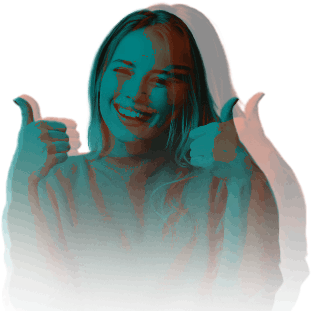
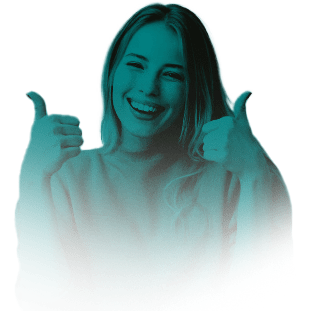
adecuaciones al home, cambio de color en seccion de testimoniales

diff --git a/styles/css/main.css b/styles/css/main.css
@@ -7579,7 +7579,7 @@ h6 {
 
 .testimonials {
   width: 100%;
-  background: #272727;
+  background: #008081;
   position: relative;
   margin: 0;
 }
@@ -7595,7 +7595,7 @@ h6 {
   flex-direction: column;
   align-items: center;
   justify-content: center;
-  color: #d4f1e2;
+  color: #011109;
 }
 .testimonials .testimonial__image {
   position: relative;
@@ -7605,7 +7605,7 @@ h6 {
 .testimonials .testimonial__img {
   width: 100%;
   max-width: 250px;
-  border: solid 1px #bd1025;
+  border: solid 1px #011109;
   border-radius: 50%;
   padding: 1rem;
   display: block;
@@ -7624,7 +7624,7 @@ h6 {
   width: 90%;
   font-size: 1.8rem;
   text-align: center;
-  font-weight: 100;
+  font-weight: 400;
   margin: 0 0 3rem 0;
 }
 .testimonials .testimonial__arrow {
@@ -8054,26 +8054,26 @@ h6 {
   width: 300%;
   background: #d4f1e2;
 }
-.title-section.title-section--testomonios {
+.title-section.title-section--testimonios {
   margin-bottom: 5rem;
   width: 100%;
   max-width: 100%;
   overflow: hidden;
 }
-.title-section.title-section--testomonios span {
-  color: #272727;
+.title-section.title-section--testimonios span {
+  color: #008081;
 }
-.title-section.title-section--testomonios span::after {
+.title-section.title-section--testimonios span::after {
   background: #272727;
   left: 200%;
   width: 200%;
 }
-.title-section.title-section--testomonios span:last-of-type {
+.title-section.title-section--testimonios span:last-of-type {
   align-self: flex-end;
   color: #011109;
   padding-right: 20%;
 }
-.title-section.title-section--testomonios span:last-of-type::after {
+.title-section.title-section--testimonios span:last-of-type::after {
   left: -149.5%;
   width: 300%;
   background: #011109;

diff --git a/styles/sass/components/_testimonials.scss b/styles/sass/components/_testimonials.scss
@@ -1,6 +1,6 @@
 .testimonials {
   width: 100%;
-  background: $grey;
+  background: $green;
   position: relative;
   margin: 0;
 
@@ -18,7 +18,7 @@
     flex-direction: column;
     align-items: center;
     justify-content: center;
-    color: $white-green;
+    color: $black;
   }
 
   & .testimonial__image {
@@ -30,7 +30,7 @@
   & .testimonial__img {
     width: 100%;
     max-width: 250px;
-    border: solid 1px $red;
+    border: solid 1px $black;
     border-radius: 50%;
     padding: 1rem;
     display: block;
@@ -54,7 +54,7 @@
     width: 90%;
     font-size: 1.8rem;
     text-align: center;
-    font-weight: $thin-font;
+    font-weight: $regular-font;
     margin: 0 0 3rem 0;
   }
 

diff --git a/index.html b/index.html
@@ -149,7 +149,8 @@
             queramos cambiar"
           </h3>
           <h4 class="banner__author">JAVIER CREUS</h4>
-          <h5 class="banner__company">Fundador de Ideas For Change</h5>
+          <h5 class="banner__company">Fundador de Ideas For Change <br>
+Mentor en The Social Circle</h5>
         </div>
       </div>
     </section>
@@ -212,7 +213,7 @@
     </section>
 
     <section class="testimonials">
-      <h2 class="title-section title-section--testomonios">
+      <h2 class="title-section title-section--testimonios">
         <span>TESTIMONIOS</span>
         <span>& ÉXITOS.</span>
       </h2>

diff --git a/styles/sass/components/_title-section.scss b/styles/sass/components/_title-section.scss
@@ -115,13 +115,13 @@
     }
   }
 
-  &.title-section--testomonios {
+  &.title-section--testimonios {
     margin-bottom: 5rem;
     width: 100%;
     max-width: 100%;
     overflow: hidden;
     span {
-      color: $grey;
+      color: $green;
       &::after {
         background: $grey;
         left: 200%;
